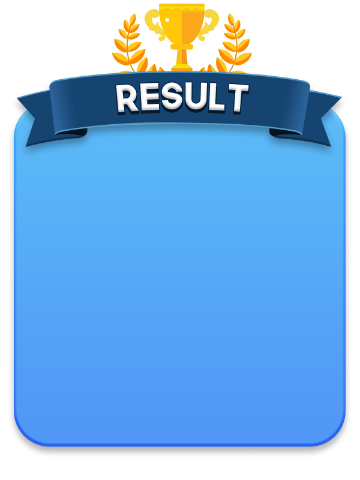
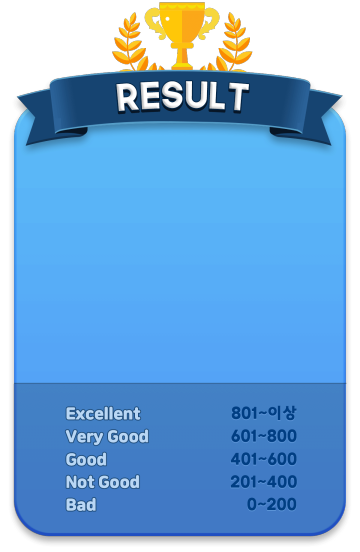
- 집중력 게임 적용 로직 및 획득가능한 최고점수 변경을 적용한다 #BRAIN-39

diff --git a/src/app/com/omnicns/omnifit/game/five-fan/obj/game/ResultPopup.ts b/src/app/com/omnicns/omnifit/game/five-fan/obj/game/ResultPopup.ts
@@ -37,6 +37,14 @@ export class ResultPopup extends AWObj {
   private ic_result_popup_medal_1stImg = AWResourceManager.getInstance().resources('ic_result_popup_medal_1stImg');
   private ic_result_popup_medal_2ndImg = AWResourceManager.getInstance().resources('ic_result_popup_medal_2ndImg');
 
+  private ic_scoretext_excellentImg = AWResourceManager.getInstance().resources('ic_scoretext_excellentImg');
+  private ic_scoretext_verygoodImg = AWResourceManager.getInstance().resources('ic_scoretext_verygoodImg');
+  private ic_scoretext_goodImg = AWResourceManager.getInstance().resources('ic_scoretext_goodImg');
+  private ic_scoretext_notgoodImg = AWResourceManager.getInstance().resources('ic_scoretext_notgoodImg');
+  private ic_scoretext_badImg = AWResourceManager.getInstance().resources('ic_scoretext_badImg');
+  private ic_scoretext_badge_02_1Img = AWResourceManager.getInstance().resources('ic_scoretext_badge_02_1Img');
+  private ic_scoretext_badge_02_2Img = AWResourceManager.getInstance().resources('ic_scoretext_badge_02_2Img');
+
   private targetPosition: PointVector;
   private hitArea: Rect;
   private hitExitArea: Rect;
@@ -84,15 +92,15 @@ export class ResultPopup extends AWObj {
 
     //draw popup background
     const popup_x = this.x - (this.ic_result_popup_bgImg.width / 2);
-    const popup_y = this.y - (this.ic_result_popup_bgImg.height / 2) - 20;
+    const popup_y = this.y - (this.ic_result_popup_bgImg.height / 2) - 50;
     context.drawImage(this.ic_result_popup_bgImg, popup_x, popup_y);
     this.hitArea = new Rect(popup_x, popup_y, popup_x + this.ic_result_popup_bgImg.width, popup_y + this.ic_result_popup_bgImg.height);
     this.hitExitArea = new Rect(popup_x, popup_y + this.ic_result_popup_bgImg.height, popup_x + this.ic_result_popup_bgImg.width - 185, popup_y + this.ic_result_popup_bgImg.height + 60);
     this.hitReStartArea = new Rect(popup_x + 185, popup_y + this.ic_result_popup_bgImg.height, popup_x + this.ic_result_popup_bgImg.width, popup_y + this.ic_result_popup_bgImg.height + 60);
 
     context.drawImage(this.ic_result_popup_score_bgImg, popup_x + 45, popup_y + 330);
-    context.drawImage(this.btn_result_popup_exit_norImg, popup_x + 7, popup_y + 450);
-    context.drawImage(this.btn_result_popup_again_norImg, popup_x + 180, popup_y + 450);
+    context.drawImage(this.btn_result_popup_exit_norImg, popup_x + 7, popup_y + 542);
+    context.drawImage(this.btn_result_popup_again_norImg, popup_x + 180, popup_y + 542);
     context.drawImage(this.ic_result_popup_firecrackerImg, popup_x + 55, popup_y + 100);
     context.drawImage(this.ic_result_popup_characterImg, popup_x + 95, popup_y + 150);
     let medalImg = this.ic_result_popup_medal_1stImg;
@@ -100,6 +108,24 @@ export class ResultPopup extends AWObj {
       medalImg = this.ic_result_popup_medal_2ndImg;
     }
     context.drawImage(medalImg, popup_x + 158, popup_y + 224);
+
+    // 점수에 따라 멘트와 등급 표시
+    if (localSum >= 0 && localSum <= 200) {
+      context.drawImage(this.ic_scoretext_badImg, popup_x + 40, popup_y + 265);
+      context.drawImage(this.ic_scoretext_badge_02_2Img, popup_x + 25, popup_y + 486);
+    } else if (localSum >= 201 && localSum <= 400) {
+      context.drawImage(this.ic_scoretext_notgoodImg, popup_x + 40, popup_y + 265);
+      context.drawImage(this.ic_scoretext_badge_02_2Img, popup_x + 25, popup_y + 462);
+    } else if (localSum >= 401 && localSum <= 600) {
+      context.drawImage(this.ic_scoretext_goodImg, popup_x + 40, popup_y + 265);
+      context.drawImage(this.ic_scoretext_badge_02_1Img, popup_x + 25, popup_y + 439);
+    } else if (localSum >= 601 && localSum <= 800) {
+      context.drawImage(this.ic_scoretext_verygoodImg, popup_x + 40, popup_y + 265);
+      context.drawImage(this.ic_scoretext_badge_02_1Img, popup_x + 25, popup_y + 416);
+    } else if (localSum >= 801) {
+      context.drawImage(this.ic_scoretext_excellentImg, popup_x + 40, popup_y + 265);
+      context.drawImage(this.ic_scoretext_badge_02_1Img, popup_x + 25, popup_y + 393);
+    }
 
     context.save();
     const fontPT = 'normal 35';
@@ -119,8 +145,6 @@ export class ResultPopup extends AWObj {
     context.fillText(localSum.toLocaleString() + ' m', popup_x + 178, popup_y + 372);
     // context.strokeText(localSum.toLocaleString() + ' m', popup_x + 220, popup_y + 372);
     context.restore();
-
-
   }
 
   onStart(room: Room) {

diff --git a/src/app/com/omnicns/omnifit/game/five-fan/AWResourceManager.ts b/src/app/com/omnicns/omnifit/game/five-fan/AWResourceManager.ts
@@ -93,6 +93,14 @@ export class AWResourceManager implements LifeCycle {
     const ic_result_popup_firecrackerImg = new Image(); ic_result_popup_firecrackerImg.src = 'assets/image/ic_result_popup_firecracker.png';
     const ic_result_popup_score_bgImg = new Image(); ic_result_popup_score_bgImg.src = 'assets/image/ic_result_popup_score_bg.png';
 
+    const ic_scoretext_excellentImg         = new Image(); ic_scoretext_excellentImg.src = 'assets/image/ic_scoretext_excellent.png';
+    const ic_scoretext_verygoodImg         = new Image(); ic_scoretext_verygoodImg.src = 'assets/image/ic_scoretext_verygood.png';
+    const ic_scoretext_goodImg         = new Image(); ic_scoretext_goodImg.src = 'assets/image/ic_scoretext_good.png';
+    const ic_scoretext_notgoodImg         = new Image(); ic_scoretext_notgoodImg.src = 'assets/image/ic_scoretext_notgood.png';
+    const ic_scoretext_badImg         = new Image(); ic_scoretext_badImg.src = 'assets/image/ic_scoretext_bad.png';
+    const ic_scoretext_badge_02_1Img         = new Image(); ic_scoretext_badge_02_1Img.src = 'assets/image/ic_scoretext_badge_02_1.png';
+    const ic_scoretext_badge_02_2Img         = new Image(); ic_scoretext_badge_02_2Img.src = 'assets/image/ic_scoretext_badge_02_2.png';
+
     const applauseSound = new Audio('assets/audio/applause.mp3');
     const applause_upSound = new Audio('assets/audio/applause_up.mp3');
     const fanSound = new Audio('assets/audio/fan.mp3');
@@ -175,6 +183,13 @@ export class AWResourceManager implements LifeCycle {
     this.setResources('ic_result_popup_medal_2ndImg', ic_result_popup_medal_2ndImg);
     this.setResources('ranking_shape_02_arrowImg', ranking_shape_02_arrowImg);
 
+    this.setResources('ic_scoretext_excellentImg', ic_scoretext_excellentImg);
+    this.setResources('ic_scoretext_verygoodImg', ic_scoretext_verygoodImg);
+    this.setResources('ic_scoretext_goodImg', ic_scoretext_goodImg);
+    this.setResources('ic_scoretext_notgoodImg', ic_scoretext_notgoodImg);
+    this.setResources('ic_scoretext_badImg', ic_scoretext_badImg);
+    this.setResources('ic_scoretext_badge_02_1Img', ic_scoretext_badge_02_1Img);
+    this.setResources('ic_scoretext_badge_02_2Img', ic_scoretext_badge_02_2Img);
     // this._resources.forEach((v, k) => {
     //   Observable.fromEvent(v, 'load').subscribe( (it: Event) => {
     //     //it.srcElement;

diff --git a/src/app/com/omnicns/omnifit/game/five-fan/obj/score/Score.ts b/src/app/com/omnicns/omnifit/game/five-fan/obj/score/Score.ts
@@ -93,7 +93,7 @@ export class Score extends AWObj {
     this.room = undefined;
     //집중도
     this.roomDetailSubscription = this.stage.eventObservable(AWStageEvent.EVENT_ROOM_DETAIL).filter((it) => !ValidUtil.isNullOrUndefined(it.local) && !ValidUtil.isNullOrUndefined(it.other)).subscribe( (room: Room) => {
-      console.log('score room ' + room.status + ' ' + room.local.headsetConcentration);
+      // console.log('score room ' + room.status + ' ' + room.local.headsetConcentration);
       if (room.status === RoomStatusCode.RUN) {
         this.room = room;
       }else {

diff --git a/src/app/com/omnicns/omnifit/drive/DeviceManager.ts b/src/app/com/omnicns/omnifit/drive/DeviceManager.ts
@@ -43,6 +43,10 @@ export class DeviceManager {
       }else if ('ArrowDown' === e.key) {
         at--;
       }
+      if (e.key === '-') { at = 10; }
+      if (e.key >= '0' && e.key <= '9') {
+        at = Number(e.key);
+      }
       at = Math.min(10, at);
       at = Math.max(0, at);
       this.dispatchCustomEvent(new CustomEvent(DeviceManager.EVENT_OMNIFIT_HEADSET_CONCENTRATION, {detail: at}));
